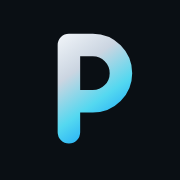
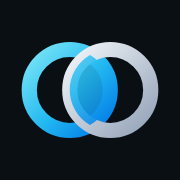
New brand mark: two overlapping rings (partnership)
Option 1 from the logo proposals: the agent's and the broker's rings with
the shared area lit. Replaces the P mark in the header, footer, auth and
error pages, and in the SVG favicon, PWA icons (maskable within the safe
zone) and Apple touch icon. The second ring uses the theme's metal tokens so
it reads on dark and light.

Claude-Session: https://claude.ai/code/session_012nmPzfY897ARaTvCBTAFbW

Changed region(s): [[0.1111, 0.1667, 0.8889, 0.8056]]

diff --git a/src/components/logo.tsx b/src/components/logo.tsx
@@ -1,68 +1,35 @@
 import { cn } from "@/lib/utils";
 
 /**
- * Partners FX brand mark — a metallic "P" ribbon: a silver upper form melting
- * into electric-cyan → bright-blue, per the Partners FX visual identity.
- * Rendered with a diagonal metallic gradient, a specular highlight edge, and
- * a soft drop shadow for a premium 3D feel.
+ * Partners FX brand mark: two overlapping rings — the agent and the broker —
+ * with the shared area lit. Partnership is where the two meet. The cyan ring
+ * is the brand gradient; the second ring takes the theme's metal tokens
+ * (silver on dark, graphite on light) so it stays visible on both.
  */
 export function LogoMark({ className }: { className?: string }) {
   return (
     <svg
-      viewBox="0 0 44 44"
+      viewBox="0 0 64 64"
       fill="none"
       xmlns="http://www.w3.org/2000/svg"
       className={className}
       aria-hidden="true"
     >
       <defs>
-        {/* Metallic sweep: bright silver (top-left) → electric cyan → blue */}
-        <linearGradient id="fx-metal" x1="8" y1="6" x2="34" y2="40" gradientUnits="userSpaceOnUse">
-          {/* Theme tokens (globals.css): silver on the dark theme, graphite
-              on the light one, where a near-white stroke vanished. */}
-          <stop style={{ stopColor: "var(--c-logo-metal-1)" }} />
-          <stop offset="0.32" style={{ stopColor: "var(--c-logo-metal-2)" }} />
-          <stop offset="0.62" stopColor="#54D8F0" />
-          <stop offset="1" stopColor="#0090FC" />
+        <linearGradient id="pfx-a" x1="8" y1="16" x2="40" y2="48" gradientUnits="userSpaceOnUse">
+          <stop stopColor="#7BE6F7" />
+          <stop offset="0.55" stopColor="#22B8F0" />
+          <stop offset="1" stopColor="#0077E6" />
         </linearGradient>
-        <filter id="fx-shadow" x="-30%" y="-20%" width="160%" height="150%">
-          <feDropShadow dx="0" dy="1.1" stdDeviation="1.1" floodColor="#020617" floodOpacity="0.5" />
-        </filter>
+        <linearGradient id="pfx-b" x1="24" y1="16" x2="56" y2="48" gradientUnits="userSpaceOnUse">
+          <stop style={{ stopColor: "var(--c-logo-metal-1)" }} />
+          <stop offset="1" style={{ stopColor: "var(--c-logo-metal-2)" }} />
+        </linearGradient>
       </defs>
-
-      <g filter="url(#fx-shadow)">
-        {/* Stem of the P */}
-        <path
-          d="M14.5 8 V37"
-          stroke="url(#fx-metal)"
-          strokeWidth="7"
-          strokeLinecap="round"
-        />
-        {/* Bowl of the P (D-shaped loop to the right) */}
-        <path
-          d="M14.5 8 H23 A9.5 9.5 0 0 1 23 27 H14.5"
-          stroke="url(#fx-metal)"
-          strokeWidth="7"
-          strokeLinecap="round"
-          strokeLinejoin="round"
-        />
-        {/* Specular highlight along the upper-left edge for a metallic sheen */}
-        <path
-          d="M14.5 9 V20"
-          stroke="#ffffff"
-          strokeOpacity="0.55"
-          strokeWidth="1.6"
-          strokeLinecap="round"
-        />
-        <path
-          d="M15.5 8.5 H22.5 A8 8 0 0 1 26.5 12"
-          stroke="#ffffff"
-          strokeOpacity="0.4"
-          strokeWidth="1.4"
-          strokeLinecap="round"
-          fill="none"
-        />
-      </g>
+      <circle cx="24" cy="32" r="16" stroke="url(#pfx-a)" strokeWidth="5.5" />
+      <circle cx="40" cy="32" r="16" stroke="url(#pfx-b)" strokeWidth="5.5" />
+      {/* The lens where the rings overlap. */}
+      <path d="M32 18.14A16 16 0 0 1 32 45.86A16 16 0 0 1 32 18.14Z" fill="url(#pfx-a)" opacity="0.9" />
     </svg>
   );
 }
